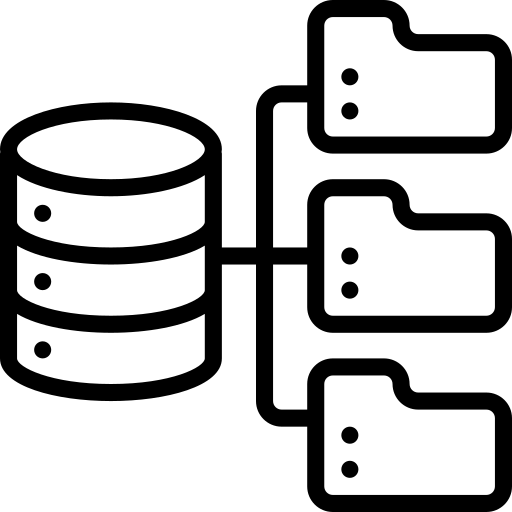
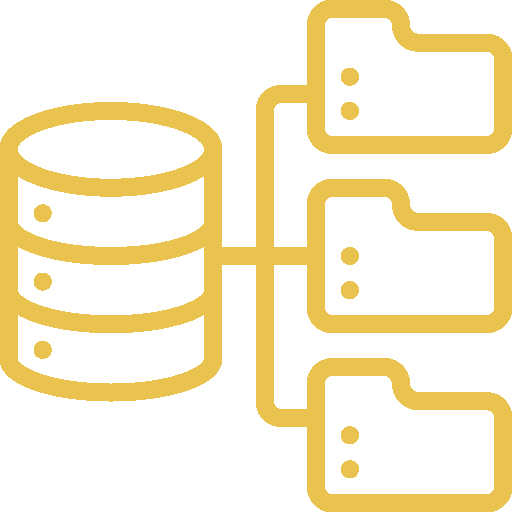
color changes.

Changed region(s): [[0.0, 0.0, 1.0, 1.0]]

diff --git a/index.html b/index.html
@@ -280,7 +280,7 @@
                     src="./assets/images/devops.png"
                     alt="DevOps icon"
                     width="40"
-                    style="filter: grayscale(100%) invert(100%)"
+                 
                   />
                 </div>
 
@@ -300,7 +300,7 @@
                     src="./assets/images/database.png"
                     alt="camera icon"
                     width="40"
-                    style="filter: grayscale(100%) invert(100%)"
+                    
                   />
                 </div>
 

diff --git a/assets/css/style.css b/assets/css/style.css
@@ -376,9 +376,7 @@ main {
   background: var(--bg-gradient-onyx);
   border-radius: 180px !important;
 }
-.icon-box{
-color: white;
-}
+
 
 
 
